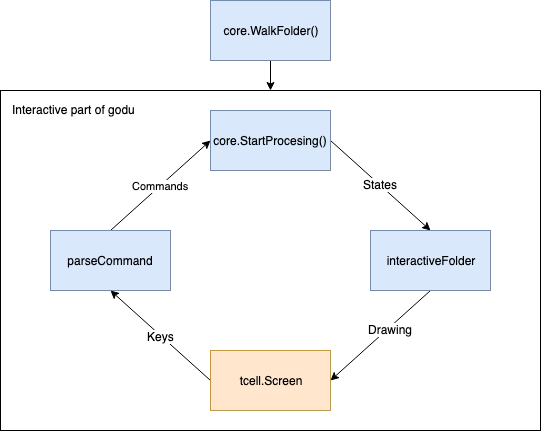
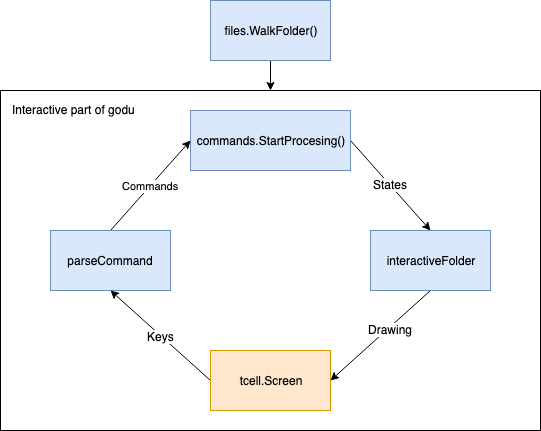
Changing the contributing documentation

diff --git a/CONTRIBUTING.md b/CONTRIBUTING.md
@@ -8,11 +8,12 @@ Why for nomral use it is ok to call `go get` without go modules, if you are goin
 ![godu architecture](godu_architecture.png)
 
 Main things to consider when implementing new functionality is packages, there are 3:
-* `core` - this is the true godu. Everything that does the main job is here. If godu wasn't CLI utility but GUI app, this package would ideally stay untouched
+* `files` - godu's file system representation and algorythms for making and changing the file tree structure
+* `commands` - application state representation and functions to change it, all based on the command design pattern
 * `interactive` - this is functionality connected to UI of the app
 * `main` - this contains main wiring + tcell.Screen related functionality, **this is the only package that is not expected to have 100% test coverage**
 
-#### Before doing significant changes to core (specially changing the main structures like File and State, please consult the change in form of Github Issue
+#### Before doing significant changes to `files` and `commands` packages (specially changing the main structures like File and State, please consult the change in form of Github Issue
 
 ## Main ideas
 ### State is immutable
@@ -22,12 +23,12 @@ Main things to consider when implementing new functionality is packages, there a
 ### the root folder structure should only represent the file system
 You would notice that in `godu.go` we are walking through the whole folder using
 ```
-rootFolder := core.WalkFolder(rootFolderName, ioutil.ReadDir, getIgnoredFolders())
+rootFolder := files.WalkFolder(rootFolderName, ioutil.ReadDir, getIgnoredFolders())
 ```
-The expectation is that the `core.File` structure contains only representation of the file system and it is not going to change after calling `WalkFolder`
+The expectation is that the `files.File` structure contains only representation of the file system and it is not going to change after calling `WalkFolder`
 
 ### Everything that commands do should be represented in State
 When implementing new command please make sure that it's result is captured in a state and that the state is appropriately displayed using `InteractiveFolder` (e.g. highlighting selected line in file column)
 
 ## 100% test coverage
-Expectation is that `core` and `interactive` packages will have 100% test coverage. I'm not a testing nazi but I won't have time to checkout every PR and manually retest it and neither will you. We need to be confident that `godu` still works after merging your (and any subsequent) PR.
+Expectation is that `files`, `commands` and `interactive` packages will have 100% test coverage. I'm not a testing nazi but I won't have time to checkout every PR and manually retest it and neither will you. We need to be confident that `godu` still works after merging your (and any subsequent) PR.
